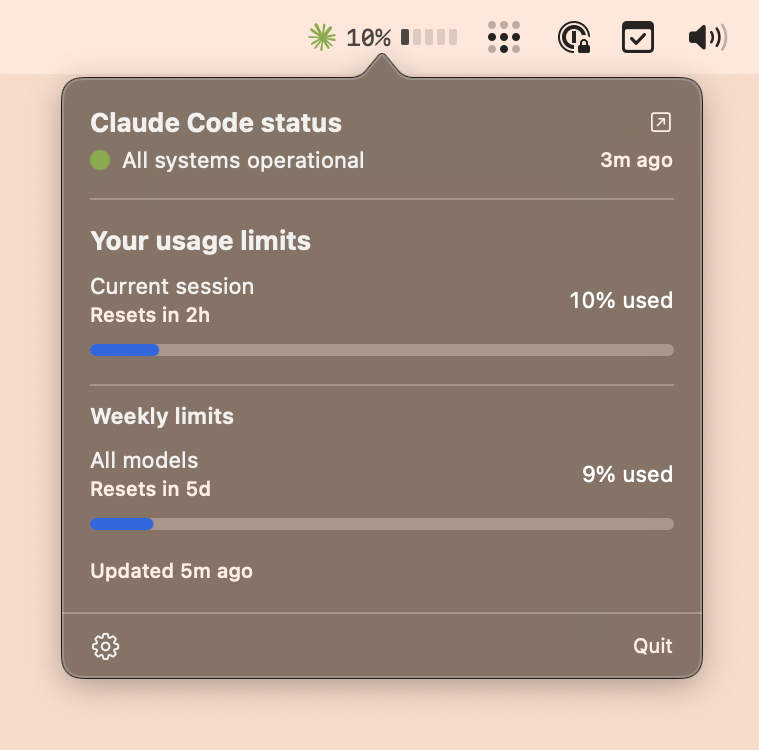
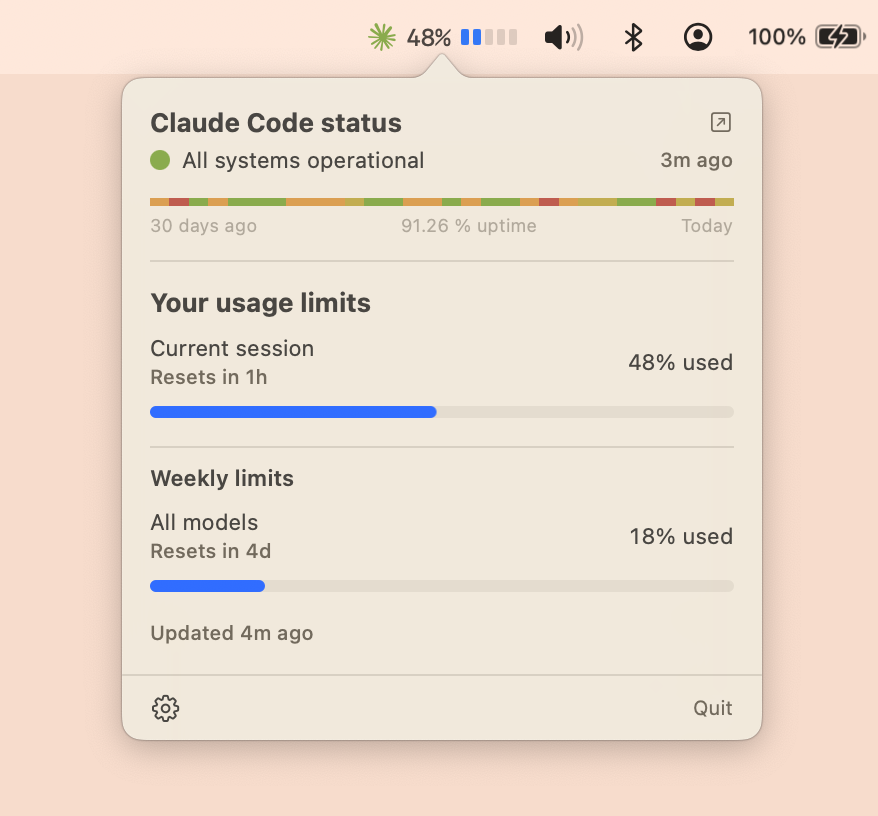
Add customizable color settings for menu bar graphic and usage bars
Separate color controls for the menu bar usage graphic and popover progress bars, each with dynamic, status-matching, and preset options. Menu bar graphic adds dynamic white/black and monochrome variants. Also fixes settings view collapsing when menu bar display options change, consolidates notification settings, and updates the README and screenshot.

diff --git a/ClaudeWatch/Models/Preferences.swift b/ClaudeWatch/Models/Preferences.swift
@@ -1,6 +1,5 @@
 import Foundation
 import SwiftUI
-import Combine
 
 enum StatusIconMode: String, CaseIterable {
     case always
@@ -46,6 +45,98 @@ enum SessionRenewNotify: String, CaseIterable {
         case .off: return "Off"
         case .always: return "Always"
         case .whenExhausted: return "When exhausted"
+        }
+    }
+}
+
+/// Shared dynamic color threshold: shifts from a base color through
+/// yellow → orange → red as usage increases.
+private func dynamicColor(_ pct: Double, base: Color) -> Color {
+    if pct >= 90 { return .red }
+    if pct >= 70 { return .orange }
+    if pct >= 50 { return .yellow }
+    return base
+}
+
+enum GraphicColor: String, CaseIterable {
+    case dynamic
+    case dynamicWhite
+    case dynamicBlack
+    case monochrome
+    case matchStatus
+    case blue
+    case indigo
+    case purple
+    case teal
+    case mint
+    case pink
+
+    var label: String {
+        switch self {
+        case .dynamic:      return "Dynamic (blue at low usage)"
+        case .dynamicWhite: return "Dynamic (white at low usage)"
+        case .dynamicBlack: return "Dynamic (black at low usage)"
+        case .monochrome:   return "Monochrome"
+        case .matchStatus:  return "Match status color"
+        case .blue:         return "Blue"
+        case .indigo:       return "Indigo"
+        case .purple:       return "Purple"
+        case .teal:         return "Teal"
+        case .mint:         return "Mint"
+        case .pink:         return "Pink"
+        }
+    }
+
+    func resolve(usagePercent: Double, severity: Severity) -> Color {
+        switch self {
+        case .dynamic:      return dynamicColor(usagePercent, base: .blue)
+        case .dynamicWhite: return dynamicColor(usagePercent, base: .white)
+        case .dynamicBlack: return dynamicColor(usagePercent, base: .black)
+        case .monochrome:   return .primary
+        case .matchStatus:  return severity.color
+        case .blue:    return .blue
+        case .indigo:  return .indigo
+        case .purple:  return .purple
+        case .teal:    return .teal
+        case .mint:    return .mint
+        case .pink:    return .pink
+        }
+    }
+}
+
+enum BarColor: String, CaseIterable {
+    case dynamic
+    case matchStatus
+    case blue
+    case indigo
+    case purple
+    case teal
+    case mint
+    case pink
+
+    var label: String {
+        switch self {
+        case .dynamic:     return "Dynamic"
+        case .matchStatus: return "Match status color"
+        case .blue:        return "Blue"
+        case .indigo:      return "Indigo"
+        case .purple:      return "Purple"
+        case .teal:        return "Teal"
+        case .mint:        return "Mint"
+        case .pink:        return "Pink"
+        }
+    }
+
+    func resolve(usagePercent: Double, severity: Severity) -> Color {
+        switch self {
+        case .dynamic:     return dynamicColor(usagePercent, base: .blue)
+        case .matchStatus: return severity.color
+        case .blue:    return .blue
+        case .indigo:  return .indigo
+        case .purple:  return .purple
+        case .teal:    return .teal
+        case .mint:    return .mint
+        case .pink:    return .pink
         }
     }
 }
@@ -97,6 +188,10 @@ final class Preferences: ObservableObject {
     // Hotkey: Carbon keyCode + modifier mask (cmd|shift|opt|ctrl bits per Carbon).
     @AppStorage("hotkeyKeyCode")  var hotkeyKeyCode: Int = 8        // 'c' key
     @AppStorage("hotkeyModifiers") var hotkeyModifiers: Int = 0x0900 // cmd | option
+
+    // Colors
+    @AppStorage("graphicColor") var graphicColor: GraphicColor = .dynamic
+    @AppStorage("progressBarColor") var progressBarColor: BarColor = .dynamic
 
     // Uptime history
     // Default must match StatusComponent.claudeCodeID; stored as a raw string

diff --git a/ClaudeWatch/UI/MenuBarLabel.swift b/ClaudeWatch/UI/MenuBarLabel.swift
@@ -17,7 +17,7 @@ struct MenuBarLabel: View {
                     let displayPct = fh.isExpired ? 0.0 : fh.usedPercentage
                     Text("\(Int(displayPct))%")
                         .font(.system(size: 12, weight: .medium, design: .monospaced))
-                        .foregroundStyle(fh.isExpired ? Color.secondary : usageColor(displayPct))
+                        .foregroundStyle(fh.isExpired ? Color.secondary : Self.textColor(displayPct))
                 } else {
                     Text("—")
                         .font(.system(size: 12, weight: .medium))
@@ -77,7 +77,7 @@ struct MenuBarLabel: View {
                 .fill(Color.primary.opacity(0.15))
                 .frame(width: 30, height: 4)
             RoundedRectangle(cornerRadius: 1.5)
-                .fill(usageColor(pct))
+                .fill(graphicColor(pct))
                 .frame(width: max(1, 30 * min(pct, 100) / 100), height: 4)
         }
     }
@@ -90,7 +90,7 @@ struct MenuBarLabel: View {
                 .stroke(Color.primary.opacity(0.15), lineWidth: 2)
             Circle()
                 .trim(from: 0, to: min(pct, 100) / 100)
-                .stroke(usageColor(pct), style: StrokeStyle(lineWidth: 2, lineCap: .round))
+                .stroke(graphicColor(pct), style: StrokeStyle(lineWidth: 2, lineCap: .round))
                 .rotationEffect(.degrees(-90))
         }
         .frame(width: 12, height: 12)
@@ -108,7 +108,7 @@ struct MenuBarLabel: View {
                     VStack(spacing: 0) {
                         Spacer(minLength: 0)
                         ClaudeLogoShape()
-                            .fill(usageColor(pct))
+                            .fill(graphicColor(pct))
                             .frame(height: geo.size.height)
                             .frame(width: geo.size.width, height: fillHeight, alignment: .bottom)
                             .clipped()
@@ -126,7 +126,7 @@ struct MenuBarLabel: View {
         return HStack(spacing: 2) {
             ForEach(0..<total, id: \.self) { i in
                 RoundedRectangle(cornerRadius: 1)
-                    .fill(i < filled ? usageColor(pct) : Color.primary.opacity(0.15))
+                    .fill(i < filled ? graphicColor(pct) : Color.primary.opacity(0.15))
                     .frame(width: 4, height: 8)
             }
         }
@@ -142,18 +142,25 @@ struct MenuBarLabel: View {
                 startAngle: .degrees(135),
                 endAngle: .degrees(135 + 270 * min(pct, 100) / 100)
             )
-            .stroke(usageColor(pct), style: StrokeStyle(lineWidth: 2, lineCap: .round))
+            .stroke(graphicColor(pct), style: StrokeStyle(lineWidth: 2, lineCap: .round))
         }
         .frame(width: 14, height: 14)
     }
 
     // MARK: - Helpers
 
-    private func usageColor(_ pct: Double) -> Color {
+    private static func textColor(_ pct: Double) -> Color {
         if pct >= 90 { return .red }
         if pct >= 70 { return .orange }
         if pct >= 50 { return .yellow }
         return .primary
+    }
+
+    private func graphicColor(_ pct: Double) -> Color {
+        preferences.graphicColor.resolve(
+            usagePercent: pct,
+            severity: coordinator.status.severity
+        )
     }
 }
 

diff --git a/ClaudeWatch/UI/SettingsSection.swift b/ClaudeWatch/UI/SettingsSection.swift
@@ -36,6 +36,30 @@ struct SettingsSection: View {
 
             Divider()
 
+            Text("Colors").font(.subheadline).foregroundStyle(.secondary)
+            VStack(alignment: .leading, spacing: 4) {
+                Text("Menu bar graphic")
+                Picker("", selection: $preferences.graphicColor) {
+                    ForEach(GraphicColor.allCases, id: \.self) { color in
+                        Text(color.label).tag(color)
+                    }
+                }
+                .pickerStyle(.menu)
+                .labelsHidden()
+            }
+            VStack(alignment: .leading, spacing: 4) {
+                Text("Usage bars")
+                Picker("", selection: $preferences.progressBarColor) {
+                    ForEach(BarColor.allCases, id: \.self) { color in
+                        Text(color.label).tag(color)
+                    }
+                }
+                .pickerStyle(.menu)
+                .labelsHidden()
+            }
+
+            Divider()
+
             Text("Notifications").font(.subheadline).foregroundStyle(.secondary)
             Toggle("Recovered", isOn: $preferences.notifyStatusRecovered)
             Toggle("Degraded / maintenance", isOn: $preferences.notifyStatusMinor)
@@ -54,7 +78,7 @@ struct SettingsSection: View {
 
             Divider()
 
-            Text("Uptime history").font(.subheadline).foregroundStyle(.secondary)
+            Text("Uptime history graph").font(.subheadline).foregroundStyle(.secondary)
             VStack(alignment: .leading, spacing: 4) {
                 Picker("", selection: $preferences.uptimeHistory) {
                     ForEach(UptimeHistory.allCases, id: \.self) { h in

diff --git a/ClaudeWatch/UI/UsageSection.swift b/ClaudeWatch/UI/UsageSection.swift
@@ -2,6 +2,7 @@ import SwiftUI
 
 struct UsageSection: View {
     @ObservedObject var coordinator: AppCoordinator
+    @ObservedObject var preferences: Preferences
 
     @State private var tick = Date()
     private let timer = Timer.publish(every: 1, on: .main, in: .common).autoconnect()
@@ -83,7 +84,7 @@ struct UsageSection: View {
     @ViewBuilder
     private func usageRow(label: String, usedPercentage: Double, resetsAt: Date?, dimmed: Bool = false) -> some View {
         let displayPct = dimmed ? 0.0 : usedPercentage
-        let tint: Color = dimmed ? .gray : Self.color(for: usedPercentage)
+        let tint: Color = dimmed ? .gray : barColor(for: usedPercentage)
         VStack(alignment: .leading, spacing: 2) {
             HStack {
                 VStack(alignment: .leading, spacing: 1) {
@@ -108,11 +109,11 @@ struct UsageSection: View {
 
     // MARK: - Helpers
 
-    private static func color(for pct: Double) -> Color {
-        if pct >= 90 { return .red }
-        if pct >= 70 { return .orange }
-        if pct >= 50 { return .yellow }
-        return .blue
+    private func barColor(for pct: Double) -> Color {
+        preferences.progressBarColor.resolve(
+            usagePercent: pct,
+            severity: coordinator.status.severity
+        )
     }
 
     private static let relativeFormatter: RelativeDateTimeFormatter = {

diff --git a/ClaudeWatch/UI/PopoverRoot.swift b/ClaudeWatch/UI/PopoverRoot.swift
@@ -19,7 +19,7 @@ struct PopoverRoot: View {
             bottomBar
         }
         .frame(width: 320)
-        .onReceive(NotificationCenter.default.publisher(for: NSPopover.willShowNotification)) { _ in
+        .onReceive(NotificationCenter.default.publisher(for: NSPopover.didCloseNotification)) { _ in
             showingSettings = false
         }
     }
@@ -33,7 +33,7 @@ struct PopoverRoot: View {
             }
 
             Divider()
-            UsageSection(coordinator: coordinator)
+            UsageSection(coordinator: coordinator, preferences: preferences)
         }
         .padding(14)
     }
@@ -46,6 +46,7 @@ struct PopoverRoot: View {
             )
             .padding(14)
         }
+        .frame(minHeight: 400)
     }
 
     private var bottomBar: some View {

diff --git a/ClaudeWatch/Models/Severity.swift b/ClaudeWatch/Models/Severity.swift
@@ -59,12 +59,4 @@ enum Severity: String, CaseIterable, Codable, Comparable {
         }
     }
 
-    var shortLabel: String {
-        switch self {
-        case .operational: return "Operational"
-        case .minor: return "Degraded"
-        case .major: return "Partial Outage"
-        case .critical: return "Major Outage"
-        }
-    }
 }

diff --git a/README.md b/README.md
@@ -6,6 +6,9 @@ Native macOS menu-bar app for tracking Claude Code usage and Anthropic service s
 
 - Subscription usage from `~/.claude/claudewatch-usage.json`, written by the Claude Code statusline hook.
 - Claude Code service health from `https://status.claude.com/api/v2/components.json`.
+- Color-coded uptime history bar (30/60/90 days) sourced from incident data and the official status page.
+- Customizable progress bar colors with dynamic, status-matching, and preset options.
+- Real-time relative timestamps with absolute tooltips on hover.
 - macOS 14 Sonoma+, Swift 5+/SwiftUI, sandboxed, zero external dependencies.
 
 ## Build
@@ -133,10 +136,10 @@ present, it takes precedence.
 ```
 ClaudeWatch/
   App/            ClaudeWatchApp, AppDelegate, Info.plist, entitlements
-  Models/         Severity, QuotaState, StatusState, Preferences
-  Services/       Quota file reader, status HTTP, notifications, Carbon hotkey
+  Models/         Severity, QuotaState, StatusState, Preferences, UptimeHistory
+  Services/       Quota file reader, status HTTP, uptime client, notifications, Carbon hotkey
   Coordinator/    AppCoordinator (timers, wake observer, threshold detection)
-  UI/             MenuBarLabel, PopoverRoot, Usage/Status/Settings sections, HotkeyRecorder
+  UI/             MenuBarLabel, PopoverRoot, Usage/Status/Uptime/Settings sections, HotkeyRecorder
 ClaudeWatchTests/
   QuotaSyncClientTests, StatusClientTests, MockURLProtocol
 ```
@@ -154,7 +157,21 @@ editable from the popover's Settings section. Changes take effect immediately.
 | Show 5h usage % | on | on/off |
 | Usage graphic | None | None, Mini bar, Ring gauge, Logo fill, Segmented dots, Arc gauge |
 
-### Status notifications
+### Colors
+
+| Setting | Default | Options |
+|---|---|---|
+| Menu bar graphic | Dynamic blue | Dynamic blue, Dynamic white, Dynamic black, Monochrome, Match status color, Blue, Indigo, Purple, Teal, Mint, Pink |
+| Usage bars | Dynamic | Dynamic, Match status color, Blue, Indigo, Purple, Teal, Mint, Pink |
+
+Menu bar graphic controls the color of the usage graphic in the menu bar
+(mini bar, ring, etc.). Usage bars controls the popover progress bars. Both
+are configured independently. Dynamic options shift through yellow/orange/red
+as usage increases; "Monochrome" uses the system primary color. Preset colors
+stay fixed. "Match status color" uses the current Claude Code service health
+color. The menu bar percentage text always uses dynamic coloring for readability.
+
+### Notifications
 
 Per-severity macOS notifications when Claude Code service status changes.
 
@@ -165,11 +182,19 @@ Per-severity macOS notifications when Claude Code service status changes.
 | Partial outage | on |
 | Major outage | on |
 
-### Session renewal
+| Setting | Default | Options |
+|---|---|---|
+| Session renewal | Off | Off, Always, When exhausted |
+
+### Uptime history
 
 | Setting | Default | Options |
 |---|---|---|
-| Notify on 5h window reset | Off | Off, Always, When exhausted |
+| Uptime history | 30 days | Off, 30 days, 60 days, 90 days |
+
+Shows a color-coded daily uptime bar for Claude Code below the status indicator.
+Daily severity is computed from incident data; the 90-day uptime percentage is
+scraped from the official status page.
 
 ### Polling intervals
 
